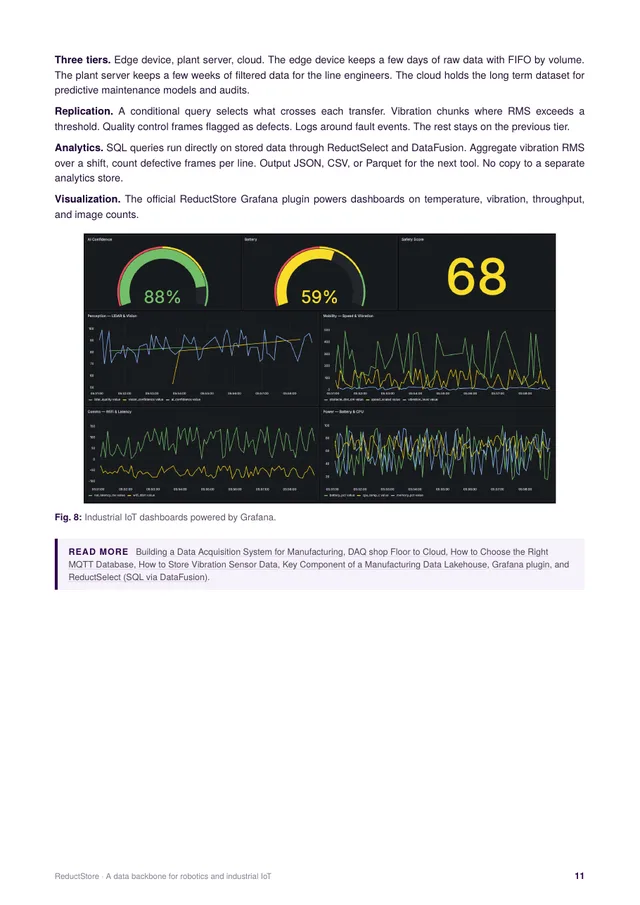
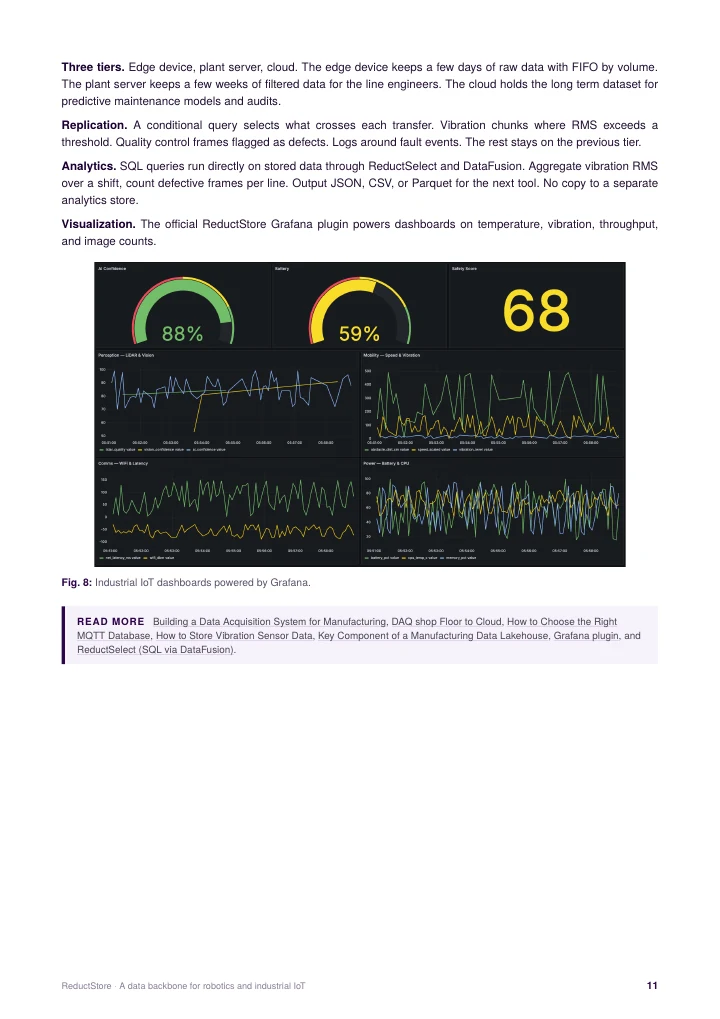
Make the white paper page compact again and align the calculator summary
Drop the contents list, put the downloads under What's inside, and render the look-inside pages sharp from the PDF. Center the Hot column and right-align Cold in the calculator summary.

diff --git a/src/pages/whitepaper/index.tsx b/src/pages/whitepaper/index.tsx
@@ -5,6 +5,8 @@ import Link from "@docusaurus/Link";
 import CodeBlock from "@theme/CodeBlock";
 import SimpleHeader from "@site/src/components/shared/SimpleHeader";
 import { LuBot, LuDownload, LuFactory, LuPlane } from "react-icons/lu";
+import BulletPointItem from "@site/src/components/shared/BulletPointItem";
+import { faArrowRight } from "@fortawesome/free-solid-svg-icons";
 import { track } from "@site/src/lib/analytics";
 import styles from "./styles.module.css";
 
@@ -13,19 +15,6 @@ const PDF = "/pdf/whitepaper/ReductStore_WhitePaper.pdf";
 const cover = require("@site/static/img/whitepaper/whitepaper.png").default;
 const pageThree = require("@site/static/img/whitepaper/page-3.webp").default;
 const pageEleven = require("@site/static/img/whitepaper/page-11.webp").default;
-
-const contents = [
-  { title: "The problem at the edge", page: 3 },
-  { title: "Why ReductStore is different", page: 3 },
-  { title: "The mental model: buckets, entries, records", page: 5 },
-  { title: "How to integrate: SDKs, HTTP API, ReductBridge, Zenoh", page: 6 },
-  { title: "The reduction strategy", page: 7 },
-  { title: "The cloud tier", page: 8 },
-  { title: "Robotics", page: 9 },
-  { title: "Industrial IoT", page: 10 },
-  { title: "Drones", page: 12 },
-  { title: "Vision and roadmap", page: 12 },
-];
 
 const insidePages = [
   { src: pageThree, caption: "Benchmarks vs. MinIO and TimescaleDB", page: 3 },
@@ -59,37 +48,12 @@ export default function WhitePaper(): JSX.Element {
       <main>
         <SimpleHeader pageTitle="White Paper" />
         <div className={clsx("container", styles.whitePaperContainer)}>
-          <section className={styles.hero}>
-            <div>
-              <p className={styles.lead}>
-                A data backbone for robotics and industrial IoT. Capture
-                everything raw at the edge, reduce it on the way to the next
-                tier, and extract it to any format or query it with SQL.
-              </p>
-              <div className={styles.actions}>
-                <a
-                  className="button button--primary button--lg"
-                  href={PDF}
-                  download
-                  onClick={onDownload("download")}
-                >
-                  <LuDownload aria-hidden="true" className={styles.icon} />
-                  Download PDF
-                </a>
-                <a
-                  className="button button--secondary button--lg"
-                  href={PDF}
-                  target="_blank"
-                  rel="noopener"
-                  onClick={onDownload("read")}
-                >
-                  Read in browser
-                </a>
-              </div>
-              <p className={styles.meta}>
-                PDF · 13 pages · 1 MB · 2026 edition · no sign-up
-              </p>
-            </div>
+          <p className={styles.lead}>
+            A data backbone for robotics and industrial IoT. Capture everything
+            raw at the edge, reduce it on the way to the next tier, and extract
+            it to any format or query it with SQL.
+          </p>
+          <section className={styles.overview}>
             <a
               className={styles.preview}
               href={PDF}
@@ -118,26 +82,61 @@ export default function WhitePaper(): JSX.Element {
                 />
               </div>
             </a>
-          </section>
-
-          <section className={styles.section}>
-            <h2 className={styles.sectionTitle}>Contents</h2>
-            <ol className={styles.contents}>
-              {contents.map((item) => (
-                <li key={item.title}>
-                  <a
-                    href={`${PDF}#page=${item.page}`}
-                    target="_blank"
-                    rel="noopener"
-                    onClick={onDownload("read")}
-                  >
-                    <span>{item.title}</span>
-                    <span className={styles.dots} aria-hidden="true" />
-                    <span className={styles.pageNumber}>p. {item.page}</span>
-                  </a>
-                </li>
-              ))}
-            </ol>
+            <div>
+              <h2 className={styles.sectionTitle}>What's inside</h2>
+              <ul className={styles.bulletPoints}>
+                <BulletPointItem>
+                  Why time-series databases and object storage fall short for
+                  robotics & industrial use cases
+                </BulletPointItem>
+                <BulletPointItem>
+                  Three use cases end to end: robotics with ROS, industrial IoT
+                  over MQTT, and drones
+                </BulletPointItem>
+                <BulletPointItem>
+                  Benchmarks and comparisons vs. MinIO, TimescaleDB, MongoDB,
+                  InfluxDB, and IoTDB
+                </BulletPointItem>
+                <BulletPointItem>Key features:</BulletPointItem>
+                <ul className={styles.subBulletPoints}>
+                  <BulletPointItem icon={faArrowRight} size="xs">
+                    FIFO quota to prevent disk overflow on edge
+                  </BulletPointItem>
+                  <BulletPointItem icon={faArrowRight} size="xs">
+                    Metadata labels for selective replication
+                  </BulletPointItem>
+                  <BulletPointItem icon={faArrowRight} size="xs">
+                    SQL over stored records with ReductSelect and DataFusion
+                  </BulletPointItem>
+                  <BulletPointItem icon={faArrowRight} size="xs">
+                    S3 and Azure Blob backends for cloud deployments
+                  </BulletPointItem>
+                </ul>
+              </ul>
+              <div className={styles.actions}>
+                <a
+                  className="button button--primary button--lg"
+                  href={PDF}
+                  download
+                  onClick={onDownload("download")}
+                >
+                  <LuDownload aria-hidden="true" className={styles.icon} />
+                  Download PDF
+                </a>
+                <a
+                  className="button button--secondary button--lg"
+                  href={PDF}
+                  target="_blank"
+                  rel="noopener"
+                  onClick={onDownload("read")}
+                >
+                  Read in browser
+                </a>
+              </div>
+              <p className={styles.meta}>
+                PDF · 13 pages · 1 MB · 2026 edition · no sign-up
+              </p>
+            </div>
           </section>
 
           <section className={styles.section}>

diff --git a/src/pages/whitepaper/styles.module.css b/src/pages/whitepaper/styles.module.css
@@ -3,12 +3,28 @@
   margin-bottom: var(--reduct-bottom-page-margin);
 }
 
-.hero {
+.whitePaperContainer > * {
+  max-width: 56rem;
+}
+
+.overview {
   display: grid;
-  grid-template-columns: minmax(0, 1fr) 16rem;
+  grid-template-columns: 13rem minmax(0, 1fr);
   gap: 3rem;
-  align-items: center;
-  margin-bottom: 3rem;
+  align-items: start;
+  margin-bottom: 2.5rem;
+}
+
+.bulletPoints {
+  list-style: none;
+  margin: 0 0 1.5rem;
+  padding: 0;
+}
+
+.subBulletPoints {
+  list-style: none;
+  margin: 0 0 0 2rem;
+  padding: 0;
 }
 
 .actions {
@@ -23,55 +39,12 @@
 }
 
 .section {
-  margin-bottom: 3rem;
-}
-
-.contents {
-  max-width: 44rem;
-  margin: 0;
-  padding: 0;
-  list-style: none;
-  counter-reset: section;
-}
-
-.contents li {
-  counter-increment: section;
-}
-
-.contents a {
-  display: flex;
-  align-items: baseline;
-  gap: 0.5rem;
-  padding: 0.4rem 0;
-  color: var(--ifm-font-color-base);
-}
-
-.contents a::before {
-  content: counter(section) ".";
-  min-width: 1.75rem;
-  color: var(--reduct-dimmed);
-}
-
-.contents a:hover {
-  color: var(--ifm-color-primary);
-  text-decoration: none;
-}
-
-.dots {
-  flex: 1 1 auto;
-  border-bottom: 1px dotted var(--ifm-color-emphasis-400);
-  transform: translateY(-0.25em);
-}
-
-.pageNumber {
-  min-width: 2.75em;
-  text-align: right;
-  font-variant-numeric: tabular-nums;
-  color: var(--reduct-dimmed);
+  margin-bottom: 2.5rem;
 }
 
 .tryIt {
   display: grid;
+  grid-template-columns: minmax(0, 1fr);
   gap: 1rem;
   padding: 1.5rem 2rem;
   border-radius: 12px;
@@ -98,7 +71,7 @@
 
 .lead {
   max-width: 44rem;
-  margin-bottom: 1.75rem;
+  margin-bottom: 2rem;
   font-size: var(--reduct-font-size-subtitle);
   line-height: 1.6;
   color: var(--ifm-color-emphasis-700);
@@ -212,8 +185,7 @@
 .inside img {
   display: block;
   width: 100%;
-  aspect-ratio: 640 / 905;
-  object-fit: cover;
+  height: auto;
   border-radius: 3px;
   background: #fff;
   box-shadow:
@@ -258,7 +230,7 @@ html[data-theme="dark"] .highlightLabel {
 }
 
 @media (max-width: 600px) {
-  .hero {
+  .overview {
     grid-template-columns: minmax(0, 1fr);
     gap: 2rem;
   }

diff --git a/src/components/calculator/CostCalculator.tsx b/src/components/calculator/CostCalculator.tsx
@@ -542,8 +542,8 @@ export default function CostCalculator(): JSX.Element {
 
               <dl className={styles.summary}>
                 <div>
-                  <dt>Recorded</dt>
-                  <dd>{formatTb(workload.generatedMonthTb)} / month</dd>
+                  <dt>Recorded / mo</dt>
+                  <dd>{formatTb(workload.generatedMonthTb)}</dd>
                 </div>
                 <div>
                   <dt>Hot</dt>

diff --git a/src/components/calculator/styles.module.css b/src/components/calculator/styles.module.css
@@ -403,11 +403,15 @@
 
 .summary {
   display: grid;
-  grid-template-columns: repeat(3, minmax(0, 1fr));
+  grid-template-columns: minmax(0, 1fr) auto minmax(0, 1fr);
   gap: 0.75rem 1rem;
   margin: 0 0 1.5rem;
-  padding: 1rem 0 0;
+  padding: 1rem 0.25rem 0;
   border-top: 1px solid rgba(43, 5, 72, 0.1);
+}
+
+.summary > :last-child {
+  justify-self: end;
 }
 
 .summary dt {
